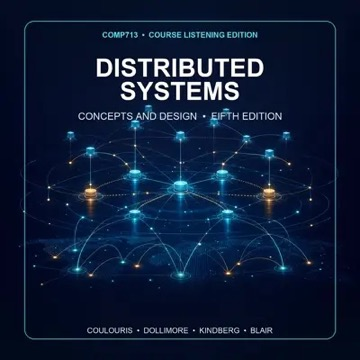
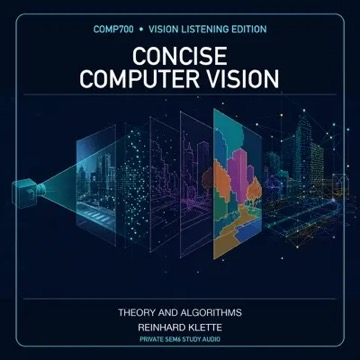
canon: refresh currently-into feed

diff --git a/src/lib/canonFeed.ts b/src/lib/canonFeed.ts
@@ -58,8 +58,8 @@ export const canonFeed: CanonFeed = {
     },
     {
       "verb": "reading",
-      "title": "Distributed Systems: Concepts and Design - Course Listening Edition - Slightly Abridged",
-      "creator": "George Coulouris, Jean Dollimore, Tim Kindberg, Gordon Blair",
+      "title": "Concise Computer Vision: An Introduction into Theory and Algorithms - Course Listening Edition - Slightly Abridged",
+      "creator": "Reinhard Klette",
       "art": {
         "src": "/canon/reading.jpg",
         "w": 360,
